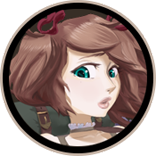
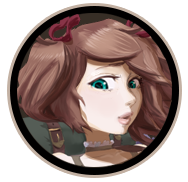
Updated version number.

diff --git a/core/src/com/majalis/screens/MainMenuScreen.java b/core/src/com/majalis/screens/MainMenuScreen.java
@@ -20,6 +20,7 @@ import com.majalis.asset.AssetEnum;
 import com.majalis.encounter.Background.BackgroundBuilder;
 import com.majalis.save.LoadService;
 import com.majalis.save.SaveService;
+import com.majalis.traprpg.TrapRPG;
 /*
  * The main menu screen loaded initially.  UI that handles player input to switch to different screens.
  */
@@ -110,7 +111,7 @@ public class MainMenuScreen extends AbstractScreen {
 		batch.begin(); 
 		// need to make these actors
 		batch.draw(arrowImage, 2280, 1398 - selection * 60, 30, 50);
-		font.draw(batch, "Version: 0.1.15.1", 2650, 600);
+		font.draw(batch, "Version: 0.1.16.0" + (TrapRPG.patron ? " Patron-Only" : ""), 2450, 600);
 		batch.end();
 	}
 

diff --git a/core/src/com/majalis/battle/Battle.java b/core/src/com/majalis/battle/Battle.java
@@ -182,7 +182,8 @@ public class Battle extends Group{
 		hoverGroup.addActor(hoverImage);
 		
 		Image characterPortrait = new Image(assetManager.get(AssetEnum.CHARACTER_POTRAIT.getPath(), Texture.class));
-		addActorAndListen(characterPortrait, 0, 618);
+		addActorAndListen(characterPortrait, -5, 615);
+		characterPortrait.setScale(.9f);
 
 		masculinityIcon = initImage(assetManager.get(character.getMasculinityPath(), Texture.class), barX - 150, 850);
 		masculinityIcon.setScale(.15f);
